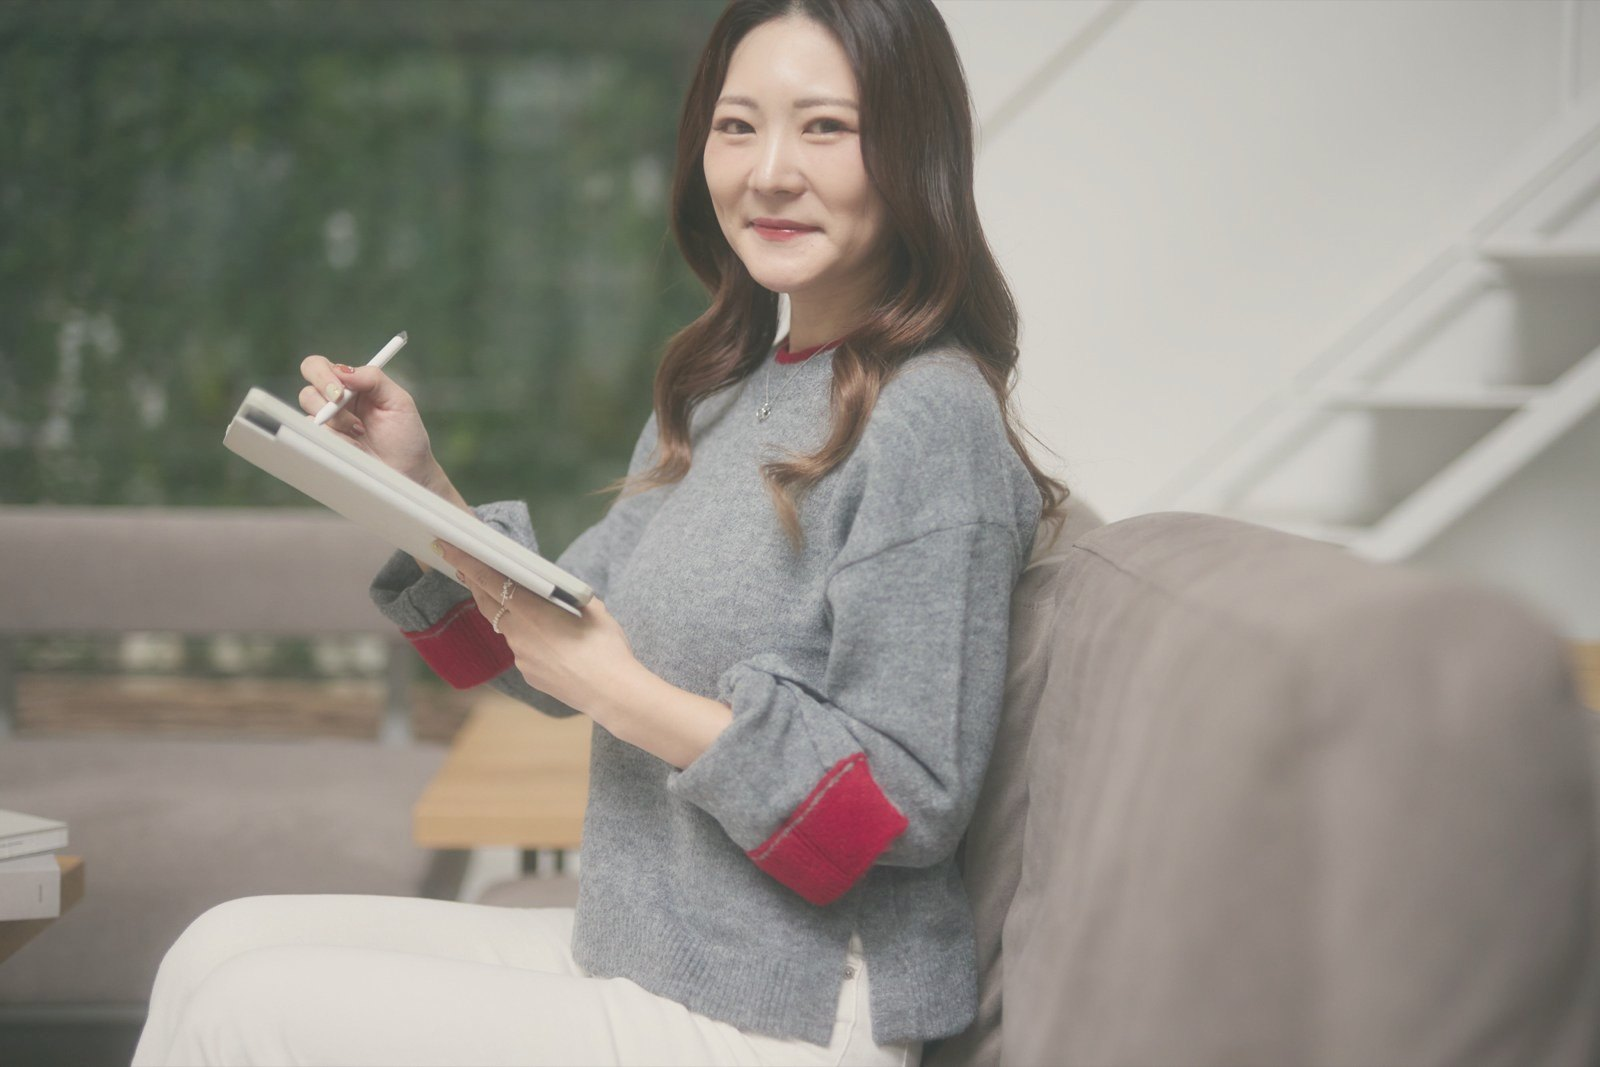
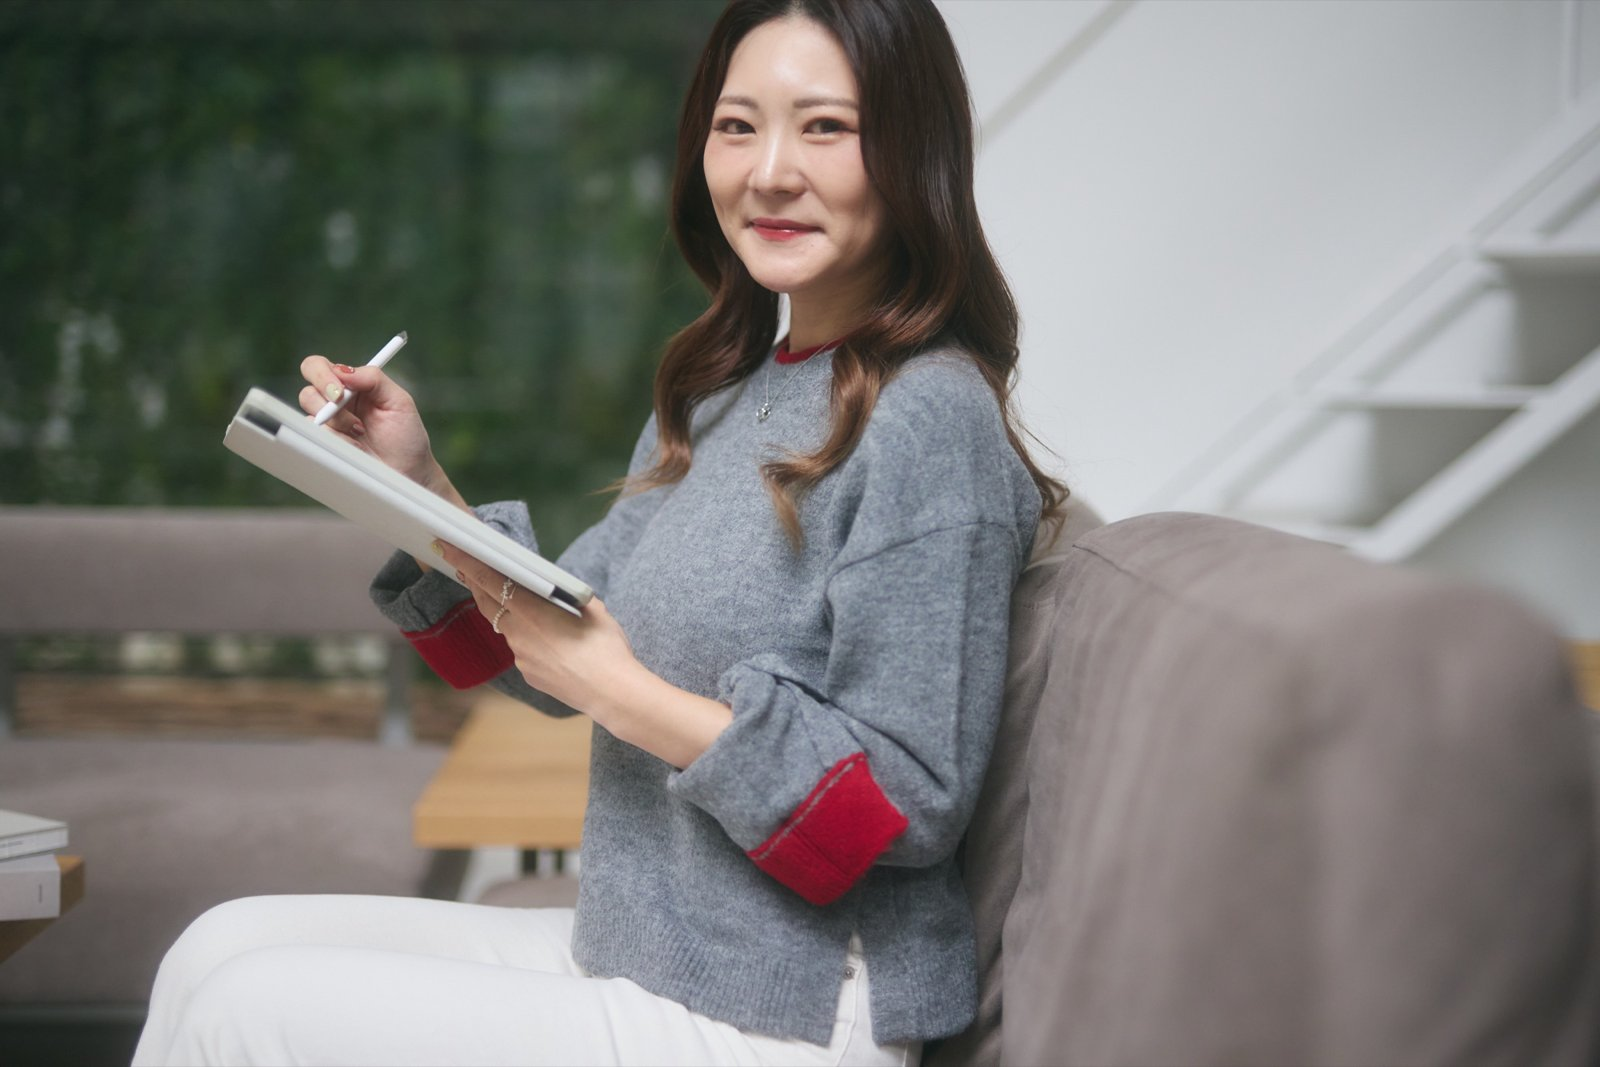
体験会・20代後半 v3：写真のトーンを元に戻し、3つの約束を学生支部OB・OG v3と同じ写真に

diff --git a/event-20s-v3-261217/index.html b/event-20s-v3-261217/index.html
@@ -479,7 +479,7 @@ height="0" width="0" style="display:none;visibility:hidden"></iframe></noscript>
 <section class="rules off">
   <div class="in">
     <h2 class="h2">3つの約束</h2>
-    <figure class="rules-photo tilt b"><img src="images/rules_321.jpg" alt="ソファに座って笑っている" loading="lazy" style="object-position:50% 12%"></figure>
+    <figure class="rules-photo tilt b"><img src="images/rules_listen.jpg" alt="ソファで向かい合って話を聞いている" loading="lazy" style="object-position:45% 50%"></figure>
     <div class="rules-card paper">
       <ol class="rules-list">
         <li><b class="rules-no">1</b><span>上手なことばにしなくてもいい</span></li>
